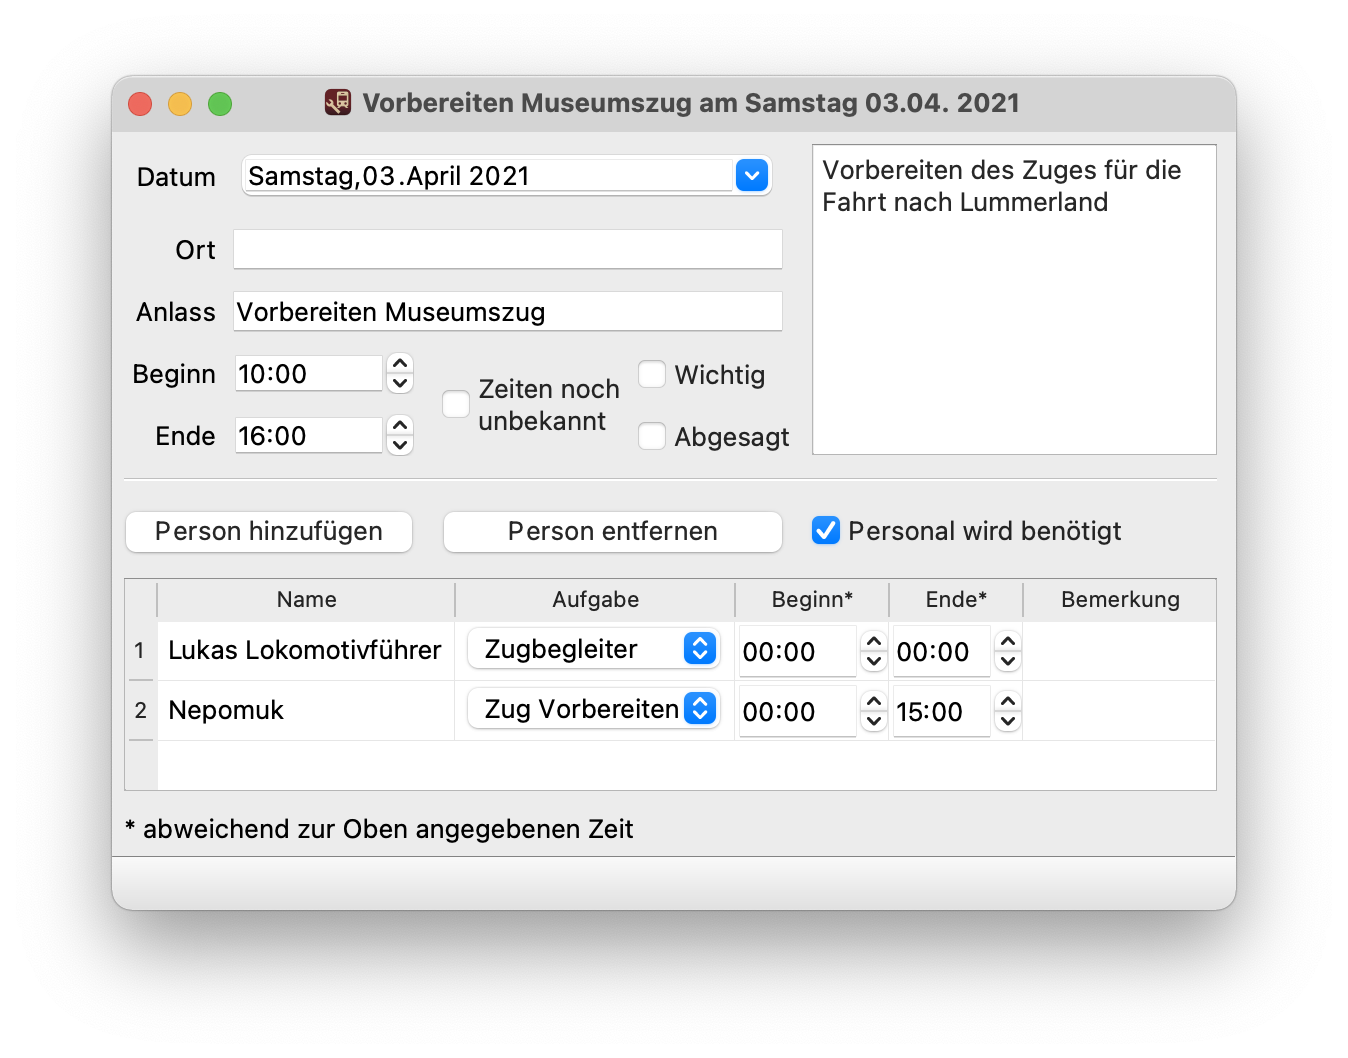
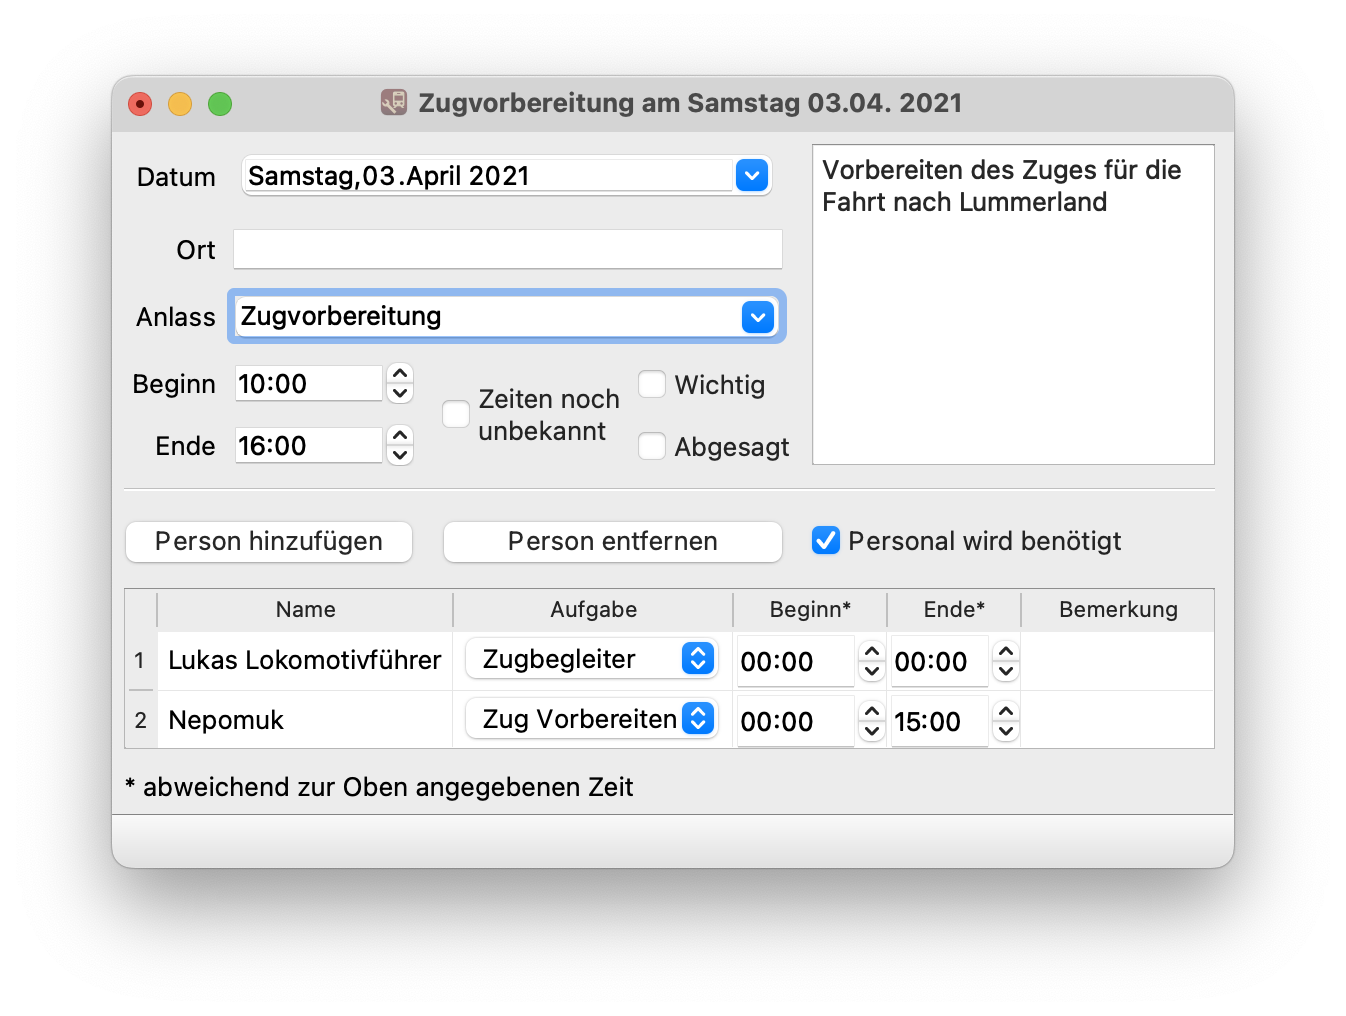
Changelog und Anleitung angepasst
Änderungen seit Version 1.8.2 eingefügt

diff --git a/Dokumentation/src/version/v1-8.tex b/Dokumentation/src/version/v1-8.tex
@@ -85,7 +85,6 @@ Veröffentlicht am 17.08.2021
 \end{itemize}
 
 
-\begin{neu}
 \subsection{Version 1.8.2}
 \label{version:1:8:2}
 Veröffentlicht am 06.02.2022
@@ -109,6 +108,48 @@ Veröffentlicht am 06.02.2022
   Die Wagenreihung wurde bei abgesagten Fahrtagen noch angezeigt
   \item
   Veränderungen beim Geschlecht oder bei der Anzahl der Lokführer wurden unter Umständen nicht übernommen
+  \item
+  Diverse kleinere Fehlerbehebungen
+\end{itemize}
+
+
+\begin{neu}
+\subsection{Version 1.8.3}
+\label{version:1:8:3}
+Veröffentlicht am xx.06.2022
+\subsubsection{Neu}
+\begin{itemize}
+  \item
+  Bei einem Arbeitseinsatz werden verschiedenen Anlässe vorgeschlagen
+  \item
+  Im Kalender wird bei Fahrtagen der Anlass angezeigt
+\end{itemize}
+\subsubsection{Verbessert}
+\begin{itemize}
+  \item
+  Die automatische Kategorieerkennung wurde verbessert
+  \item
+  Export als Listenansicht verbessert
+  \item
+  Verschiedene Fenster verbessert
+  \item
+  Diverse kleinere Fehlerbehebungen
+\end{itemize}
+
+\subsubsection{Fehlerbehebungen}
+\begin{itemize}
+  \item
+  Behebt einen Fehler durch den das Programm auf älteren Betriebsystemen nicht mehr lauffähig war
+  \item
+  Daten wurden teilweise in Englisch angegeben
+  \item
+  In der Reservierungsübersicht wurden unter Umständen Reservierungen nicht ausgegeben
+  \item
+  Auch eine leere Teilstrecke der Reservierung wurde ausgegeben
+  \item
+  Beim Export der Mitgliederdaten als CSV oder PDF war die Überschrift eventuell falsch
+  \item
+  Individuelle Zeiten wurden eventuell beim Export falsch dargestellt
   \item
   Diverse kleinere Fehlerbehebungen
 \end{itemize}

diff --git a/Dokumentation/src/anleitung.tex b/Dokumentation/src/anleitung.tex
@@ -43,7 +43,7 @@
 
 \subject{\centering\includegraphics[width=0.25\textwidth]{../../Icon/EPL.png}}
 \title{Anleitung EPL-Programmpaket}
-\subtitle{Version 1.8.2}
+\subtitle{Version 1.8.3}
 \author{Philipp Schepper}
 \date{Stand: \today}
 %\publishers{\Huge{\textsf{Arbeitsdatei}}}

diff --git a/Dokumentation/src/vorne_u_hinten/aenderungen.tex b/Dokumentation/src/vorne_u_hinten/aenderungen.tex
@@ -40,5 +40,9 @@
   \hline
   06.02.2022 &
     Version 1.8.2: Export verbessert, Fehlerbehebungen.
+    \\
+  \hline
+  xx.06.2022 &
+    Version 1.8.3: Hauptsächlich Fehlerbehebungen.
 \end{tabularx}
 Änderungen seit Version 1.7.1 sind farblich hervorgehoben.

diff --git a/CHANGELOG.md b/CHANGELOG.md
@@ -1,5 +1,26 @@
 # EPL - Veränderungshistorie
-Stand: 06. Februar 2022
+Stand: 11. Juni 2022
+
+## Version 1.8.3
+### Neu
+- Bei einem Arbeitseinsatz werden verschiedenen Anlässe vorgeschlagen
+- Im Kalender wird bei Fahrtagen der Anlass angezeigt
+
+### Verbessert
+- Die automatische Kategorieerkennung wurde verbessert
+- Export als Listenansicht verbessert
+- Verschiedene Fenster verbessert
+- Diverse kleinere Fehlerbehebungen
+
+### Fehlerbehebungen
+- Behebt einen Fehler durch den das Programm auf älteren Betriebsystemen nicht mehr lauffähig war
+- Daten wurden teilweise in Englisch angegeben
+- In der Reservierungsübersicht wurden unter Umständen Reservierungen nicht ausgegeben
+- Auch eine leere Teilstrecke der Reservierung wurde ausgegeben
+- Beim Export der Mitgliederdaten als CSV oder PDF war die Überschrift eventuell falsch
+- Individuelle Zeiten wurden eventuell beim Export falsch dargestellt
+- Diverse kleinere Fehlerbehebungen
+
 
 ## Version 1.8.2 – 2022-02-06
 ### Verbessert
